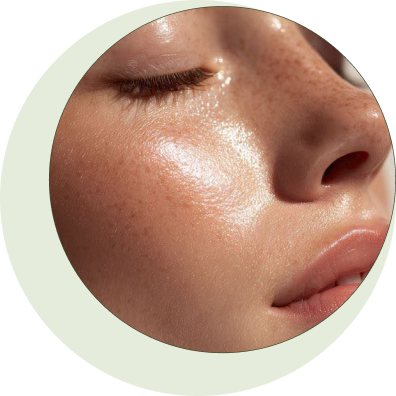
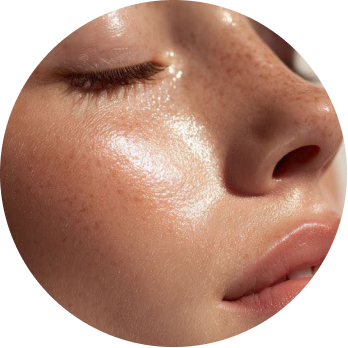
edit

diff --git a/luna-essence-spa/src/components/services/ServicesSection.jsx b/luna-essence-spa/src/components/services/ServicesSection.jsx
@@ -1,5 +1,6 @@
 import { Link } from 'react-router-dom'
 import Button from '../shared/Button'
+import ServiceImageCircle from '../shared/ServiceImageCircle'
 import backgroundImage from '../../assets/images/background/background-image.png'
 import arrowIcon from '../../assets/images/icons/arrow-icon.svg'
 import facialImage from '../../assets/images/services/facial-service-image.png'
@@ -96,8 +97,6 @@ function ServicesSection() {
                         <div className="flex flex-col gap-12 md:gap-0">
                             {services.map((service, index) => {
                                 const isEven = (index + 1) % 2 === 0
-                                const isLarge = [0, 1, 3, 5].includes(index) // Facial, Lash, Body, Skincare
-                                const imageSize = isLarge ? 'w-80 h-80 md:w-96 md:h-96' : 'w-80 h-80 md:w-96 md:h-96'
 
                                 return (
                                     <div
@@ -108,14 +107,12 @@ function ServicesSection() {
                                             }`}
                                     >
                                         {/* Image */}
-                                        <div className={`${imageSize} flex-shrink-0`}>
-                                            <div className="background-transparent w-full h-full">
-                                                <img
-                                                    src={service.image}
-                                                    alt={service.title}
-                                                    className="w-full h-full object-contain rounded-full transition-transform duration-300 ease-in-out group-hover:animate-float"
-                                                />
-                                            </div>
+                                        <div className="flex-shrink-0 transition-transform duration-300 ease-in-out group-hover:animate-float">
+                                            <ServiceImageCircle
+                                                src={service.image}
+                                                alt={service.title}
+                                                size="lg"
+                                            />
                                         </div>
 
                                         {/* Content */}

diff --git a/luna-essence-spa/src/components/shared/ServiceImageCircle.jsx b/luna-essence-spa/src/components/shared/ServiceImageCircle.jsx
@@ -1,0 +1,62 @@
+import lunaLogo from '../../assets/images/luna-logo.svg'
+
+/**
+ * ServiceImageCircle Component
+ * 
+ * Luna Spa branded circular image container with offset inner circle.
+ * - Outer circle: background secondary-200
+ * - Inner circle: offset to right, border-primary-600, contains the image
+ * 
+ * @param {string} src - Image source URL
+ * @param {string} alt - Alt text for the image
+ * @param {string} fallbackSrc - Fallback image if src is not provided
+ * @param {string} size - Size variant: 'sm' (200px), 'md' (300px), 'lg' (384px)
+ */
+function ServiceImageCircle({ src, alt, fallbackSrc = lunaLogo, size = 'md' }) {
+    const imageSrc = src || fallbackSrc
+    const isFallback = !src
+
+    // Size configurations
+    const sizeConfig = {
+        sm: {
+            outer: { width: '200px', height: '200px' },
+            inner: { width: '180px', height: '180px', top: '10px', right: '28px' },
+            fallbackImg: 'w-20 h-20'
+        },
+        md: {
+            outer: { width: '300px', height: '300px' },
+            inner: { width: '270px', height: '270px', top: '15px', right: '40px' },
+            fallbackImg: 'w-32 h-32'
+        },
+        lg: {
+            outer: { width: '384px', height: '384px' },
+            inner: { width: '346px', height: '346px', top: '19px', right: '50px' },
+            fallbackImg: 'w-40 h-40'
+        }
+    }
+
+    const config = sizeConfig[size] || sizeConfig.md
+
+    return (
+        <div
+            className="relative rounded-full bg-secondary-200 flex-shrink-0"
+            style={config.outer}
+        >
+            <div
+                className="absolute rounded-full overflow-hidden border border-primary-600"
+                style={config.inner}
+            >
+                <img
+                    src={imageSrc}
+                    alt={alt}
+                    className={isFallback
+                        ? `${config.fallbackImg} absolute top-1/2 left-1/2 -translate-x-1/2 -translate-y-1/2`
+                        : 'w-full h-full'
+                    }
+                />
+            </div>
+        </div>
+    )
+}
+
+export default ServiceImageCircle

diff --git a/luna-essence-spa/src/components/services/ServiceDetailTemplate.jsx b/luna-essence-spa/src/components/services/ServiceDetailTemplate.jsx
@@ -1,36 +1,10 @@
 import { useNavigate } from 'react-router-dom'
 import Container from '../shared/Container'
 import Button from '../shared/Button'
+import ServiceImageCircle from '../shared/ServiceImageCircle'
 import AddOnServicesSection from './AddOnServicesSection'
 import PoliciesSection from './PoliciesSection'
 import arrowIcon from '../../assets/images/icons/arrow-icon.svg'
-import lunaLogo from '../../assets/images/luna-logo.svg'
-
-// Circular image container component - Luna Spa branded style
-// Outer circle: 300px, bg-secondary-200
-// Inner circle: 270px, border-primary-600, contains the image
-function ServiceImageCircle({ src, alt, fallbackSrc = lunaLogo }) {
-    const imageSrc = src || fallbackSrc
-    const isFallback = !src
-
-    return (
-        <div
-            className="relative rounded-full bg-secondary-200"
-            style={{ width: '300px', height: '300px' }}
-        >
-            <div
-                className="absolute rounded-full border border-primary-600 overflow-hidden flex items-center justify-center"
-                style={{ width: '270px', height: '270px', top: '15px', right: '40px' }}
-            >
-                <img
-                    src={imageSrc}
-                    alt={alt}
-                    className={isFallback ? 'w-32 h-32 object-contain opacity-50' : 'w-full h-full object-cover'}
-                />
-            </div>
-        </div>
-    )
-}
 
 
 function ServiceDetailTemplate({ header, services = [], addOns = [], policies, bookingUrl, loading = false, emptyMessage = 'New services are coming soon. Please check back!' }) {
